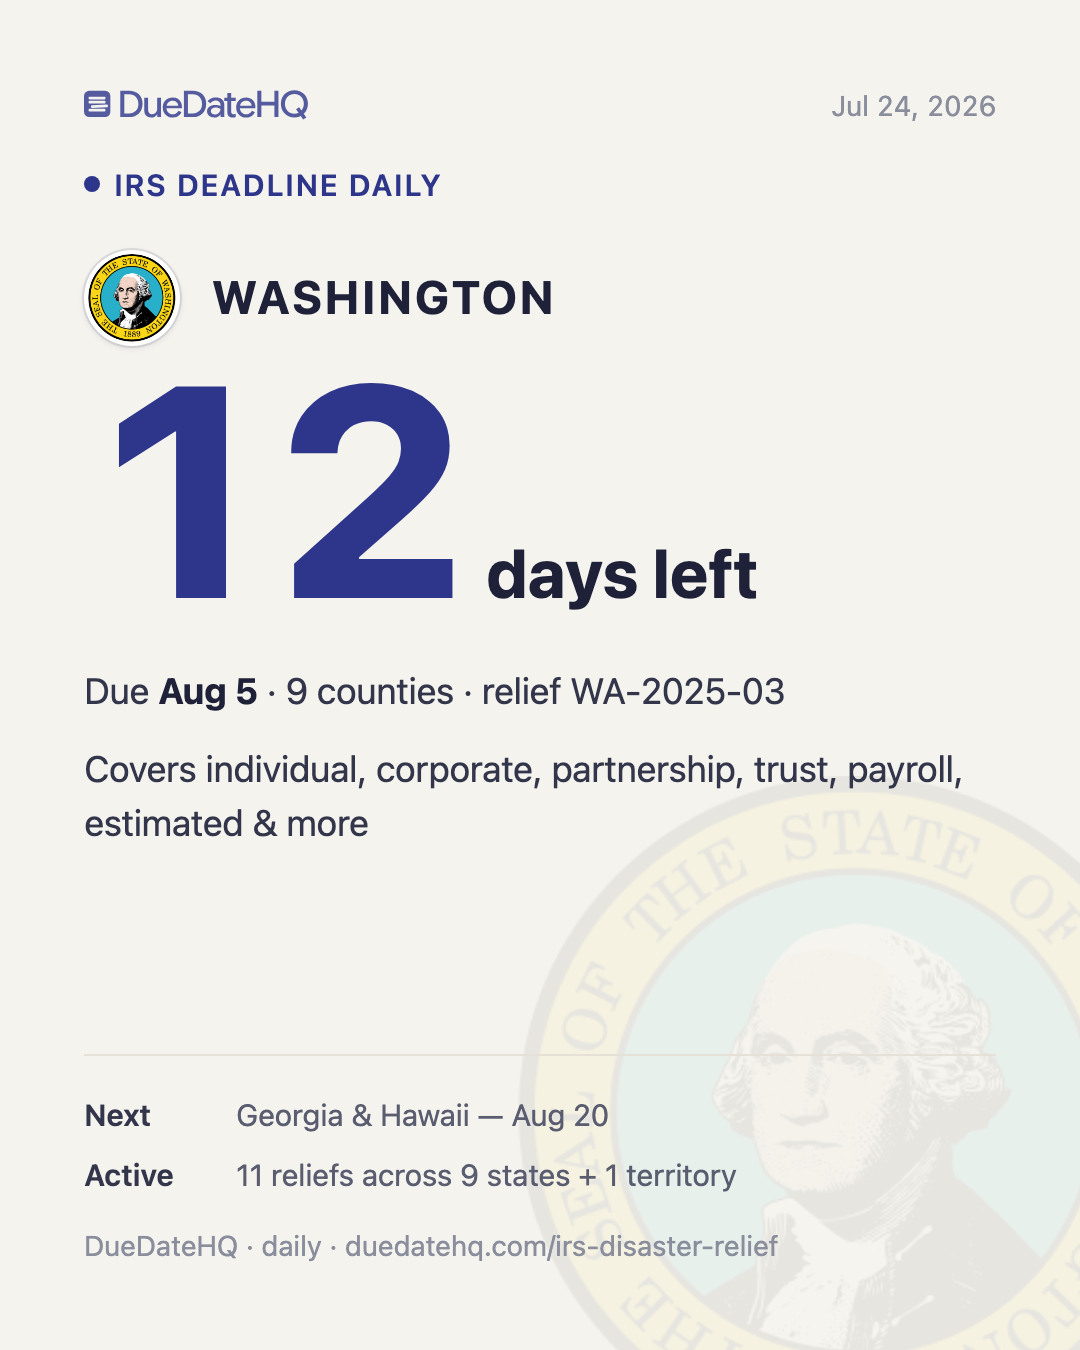
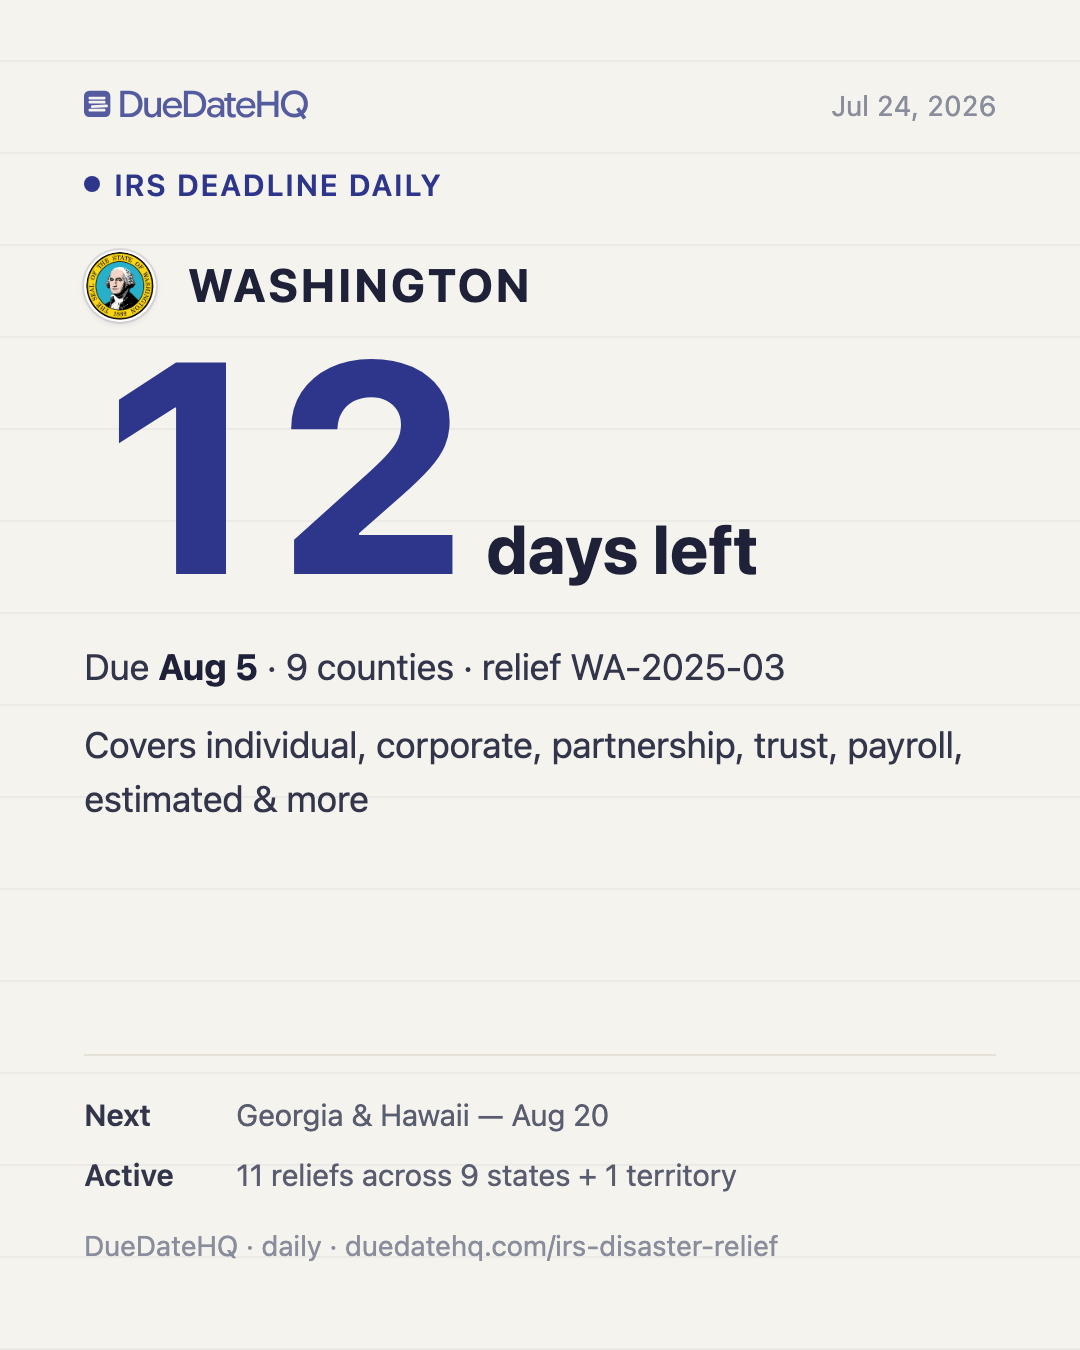
design(broadcast): ledger-line background + smaller state badge
Replaced the busy seal watermark with a faint ledger-line texture (on-brand for a
tax/accounting product, fills empty regions calmly without competing). State seal
badge reduced 48->36px so it identifies without dominating.

Changed region(s): [[0.0611, 0.1867, 0.8861, 0.6222]]

diff --git a/docs/marketing/xiaohongshu/broadcast/PACK-2026-07-24.md b/docs/marketing/xiaohongshu/broadcast/PACK-2026-07-24.md
@@ -12,7 +12,8 @@
 📌 覆盖个人/公司/合伙/信托/工资税/预估税等，窗口内到期的一并顺延
 📌 下一批：佐治亚 · 夏威夷 8月20日
 
-收藏，报税季不漏单👇 #美国报税 #CPA #EA #在美华人 #税务 #报税季
+收藏，报税季不漏单👇
+#美国报税 #CPA #EA #在美华人 #税务 #报税季
 
 ---
 